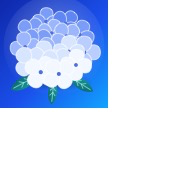
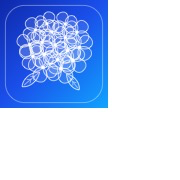
Иконка — прозрачная гортензия белыми линиями, как на карточках; листья целиком (версия 20)

Changed region(s): [[0.0278, 0.0, 0.5833, 0.5833], [0.5278, 0.0556, 0.5556, 0.0833]]

diff --git a/app.js b/app.js
@@ -1,6 +1,6 @@
 'use strict';
 
-const APP_VERSION = 19;
+const APP_VERSION = 20;
 
 /* ================= Data ================= */
 
@@ -402,7 +402,7 @@ const FLOWER = (() => {
   for (let i = 0; i < 6; i++) { const a = i / 6 * Math.PI * 2 + .3; pts.push([Math.cos(a) * .52, Math.sin(a) * .5]); }
   for (let i = 0; i < 10; i++) { const a = i / 10 * Math.PI * 2 + .1; pts.push([Math.cos(a) * .98, Math.sin(a) * .9]); }
   pts.sort((a, b) => (a[1] + a[0] * .1) - (b[1] + b[0] * .1));
-  const R = 34, cx = 50, cy = 46;
+  const R = 30, cx = 50, cy = 42;
   let fl = '';
   for (const [px, py] of pts) {
     const x = cx + (px + (r() - .5) * .12) * R, y = cy + (py + (r() - .5) * .12) * R;
@@ -410,7 +410,7 @@ const FLOWER = (() => {
     for (let i = 0; i < 4; i++) fl += `<path class="pt" d="${PETAL}" transform="translate(${f(x)} ${f(y)}) rotate(${f(rot + i * 90)}) scale(${f(sc)})"/>`;
     fl += `<circle class="ct" cx="${f(x)}" cy="${f(y)}" r="${f(sc * .13)}"/>`;
   }
-  return `<svg class="flower" viewBox="0 0 100 100" aria-hidden="true">${leaf(30, 74, 34, 140)}${leaf(66, 80, 30, 62)}${fl}</svg>`;
+  return `<svg class="flower" viewBox="0 0 100 100" aria-hidden="true">${leaf(38, 68, 24, 140)}${leaf(62, 70, 22, 52)}${fl}</svg>`;
 })();
 
 function accountChips() {

diff --git a/styles.css b/styles.css
@@ -315,7 +315,7 @@ body { background: var(--bg-grad) no-repeat, var(--bg); }
 /* Яркая карточка-«льдинка» с фарфоровой каймой и цветком */
 .hero { position: relative; overflow: hidden; border-radius: 26px; padding: 18px 18px 16px; margin-bottom: 14px; color: #fff; background: var(--hero); box-shadow: var(--hero-shadow); }
 .hero::after { content: ""; position: absolute; inset: 6px; border-radius: 21px; border: 1px solid rgba(255, 255, 255, .38); pointer-events: none; }
-.hero .flower { position: absolute; right: -6px; top: -16px; width: 132px; height: 132px; pointer-events: none; }
+.hero .flower { position: absolute; right: 10px; top: 8px; width: 112px; height: 112px; overflow: visible; pointer-events: none; }
 .hero .flower .pt { fill: rgba(255, 255, 255, .08); stroke: rgba(255, 255, 255, .42); stroke-width: 1; vector-effect: non-scaling-stroke; stroke-linejoin: round; }
 .hero .flower .ct { fill: rgba(255, 255, 255, .5); }
 .hero .flower .lf { fill: rgba(255, 255, 255, .05); stroke: rgba(255, 255, 255, .42); stroke-width: 1; vector-effect: non-scaling-stroke; }

diff --git a/sw.js b/sw.js
@@ -1,6 +1,6 @@
 // Офлайн-кэш приложения. При изменении файлов увеличьте версию.
-const CACHE = 'monetka-v19';
-const FILES = ['./', 'index.html', 'styles.css?v=19', 'app.js?v=19', 'manifest.webmanifest', 'icons/icon-180.png', 'icons/icon-192.png', 'icons/icon-512.png'];
+const CACHE = 'monetka-v20';
+const FILES = ['./', 'index.html', 'styles.css?v=20', 'app.js?v=20', 'manifest.webmanifest', 'icons/icon-180.png', 'icons/icon-192.png', 'icons/icon-512.png'];
 
 self.addEventListener('install', e => {
   e.waitUntil(caches.open(CACHE).then(c => c.addAll(FILES.map(f => new Request(f, { cache: 'reload' })))).then(() => self.skipWaiting()));

diff --git a/index.html b/index.html
@@ -14,11 +14,11 @@
   <link rel="manifest" href="manifest.webmanifest">
   <link rel="apple-touch-icon" href="icons/icon-180.png">
   <link rel="icon" type="image/png" href="icons/icon-192.png">
-  <link rel="stylesheet" href="styles.css?v=19">
+  <link rel="stylesheet" href="styles.css?v=20">
 </head>
 <body>
   <div id="app"></div>
   <input type="file" id="importFile" accept="application/json,.json" hidden>
-  <script src="app.js?v=19"></script>
+  <script src="app.js?v=20"></script>
 </body>
 </html>

diff --git a/tools/make_icon.py b/tools/make_icon.py
@@ -27,15 +27,17 @@ def f(n):
     return f'{n:.3f}'.rstrip('0').rstrip('.')
 
 
-def floret(x, y, s, rot, fill, center):
+def floret(x, y, s, rot):
+    # белые линии с лёгкой заливкой — как узор на ярких карточках приложения
     out = ''
     for i in range(4):
         out += (f'<path d="{PETAL}" transform="translate({f(x)} {f(y)}) rotate({f(rot + i * 90)}) scale({f(s)})" '
-                f'fill="{fill}" stroke="#fff" stroke-opacity=".85" stroke-width="{f(1.2 / s)}" stroke-linejoin="round"/>')
-    return out + f'<circle cx="{f(x)}" cy="{f(y)}" r="{f(s * .13)}" fill="{center}"/>'
+                f'fill="#fff" fill-opacity=".1" stroke="#fff" stroke-opacity=".78" stroke-width="{f(1.4 / s)}" stroke-linejoin="round"/>')
+    return out + f'<circle cx="{f(x)}" cy="{f(y)}" r="{f(s * .13)}" fill="#fff" fill-opacity=".85"/>'
 
 
-def cluster(cx, cy, R, seed, pal, center):
+def cluster(cx, cy, R, seed):
+    # тот же порядок случайных чисел, что в FLOWER в app.js
     r = rng(seed)
     pts = [(0.0, 0.0)]
     pts += [(math.cos(i / 6 * math.pi * 2 + .3) * .52, math.sin(i / 6 * math.pi * 2 + .3) * .5) for i in range(6)]
@@ -43,37 +45,32 @@ def cluster(cx, cy, R, seed, pal, center):
     pts.sort(key=lambda p: p[1] + p[0] * .1)  # дальние (верх) раньше, ближние (низ) поверх
     out = ''
     for px, py in pts:
-        jx, jy = (r() - .5) * .12, (r() - .5) * .12
-        depth = (py + 1) / 2
-        s = R * (.44 + .1 * depth + (r() - .5) * .06)
-        rot = r() * 90
-        k = min(len(pal) - 1, max(0, math.floor(depth * (len(pal) - 1) + (r() - .5) * 1.6 + .5)))
-        out += floret(cx + (px + jx) * R, cy + (py + jy) * R, s, rot, pal[k], center)
+        x = cx + (px + (r() - .5) * .12) * R
+        y = cy + (py + (r() - .5) * .12) * R
+        s = R * (.44 + .1 * (py + 1) / 2 + (r() - .5) * .06)
+        out += floret(x, y, s, r() * 90)
     return out
 
 
 def leaf(x, y, ln, rot):
     return (f'<g transform="translate({x} {y}) rotate({rot})">'
-            f'<path d="M0 0C{f(ln*.35)} {f(-ln*.28)} {f(ln*.8)} {f(-ln*.22)} {ln} 0C{f(ln*.8)} {f(ln*.22)} {f(ln*.35)} {f(ln*.28)} 0 0Z" fill="url(#lf)"/>'
+            f'<path d="M0 0C{f(ln*.35)} {f(-ln*.28)} {f(ln*.8)} {f(-ln*.22)} {ln} 0C{f(ln*.8)} {f(ln*.22)} {f(ln*.35)} {f(ln*.28)} 0 0Z" '
+            f'fill="#fff" fill-opacity=".07" stroke="#fff" stroke-opacity=".78" stroke-width="1.6" stroke-linejoin="round"/>'
             f'<path d="M{f(ln*.05)} 0H{f(ln*.9)}M{f(ln*.3)} 0l{f(ln*.14)} {f(-ln*.12)}M{f(ln*.5)} 0l{f(ln*.14)} {f(-ln*.11)}'
             f'M{f(ln*.3)} 0l{f(ln*.14)} {f(ln*.12)}M{f(ln*.5)} 0l{f(ln*.14)} {f(ln*.11)}" '
-            f'fill="none" stroke="#8fe0d6" stroke-width="1.3" stroke-linecap="round"/></g>')
+            f'fill="none" stroke="#fff" stroke-opacity=".65" stroke-width="1.3" stroke-linecap="round"/></g>')
 
 
 def icon_svg():
-    # только голубые оттенки, от дальних (насыщенные, плотные) к ближним (почти белые)
-    pal = ['#5f86f2', '#7b9df8', '#9bb6fc', '#bacdff', '#d8e5ff', '#f3f7ff']
+    # фон и кайма — как у яркой карточки (--hero), гортензия — как FLOWER, листья целиком
     return f'''<svg xmlns="http://www.w3.org/2000/svg" viewBox="0 0 180 180" width="180" height="180">
 <defs>
-<linearGradient id="bg" x1="0" y1="0" x2="1" y2="1"><stop offset="0" stop-color="#0e28aa"/><stop offset=".55" stop-color="#1a4fea"/><stop offset="1" stop-color="#10a4ff"/></linearGradient>
-<linearGradient id="lf" x1="0" y1="0" x2="1" y2="1"><stop offset="0" stop-color="#1aa39a"/><stop offset="1" stop-color="#0b5f6e"/></linearGradient>
-<radialGradient id="hl" cx=".5" cy=".4" r=".6"><stop offset="0" stop-color="#fff" stop-opacity=".3"/><stop offset="1" stop-color="#fff" stop-opacity="0"/></radialGradient>
-<radialGradient id="sh" cx=".5" cy=".5" r=".5"><stop offset="0" stop-color="#06134d" stop-opacity=".45"/><stop offset="1" stop-color="#06134d" stop-opacity="0"/></radialGradient>
+<linearGradient id="bg" x1="0" y1="0" x2="1" y2="1"><stop offset="0" stop-color="#0e28aa"/><stop offset=".48" stop-color="#1a4fea"/><stop offset="1" stop-color="#10a4ff"/></linearGradient>
 </defs>
-<rect width="180" height="180" fill="url(#bg)"/><circle cx="90" cy="76" r="84" fill="url(#hl)"/>
-<ellipse cx="92" cy="136" rx="62" ry="16" fill="url(#sh)"/>
-{leaf(62, 126, 50, 152)}{leaf(116, 128, 46, 32)}{leaf(90, 134, 40, 96)}
-{cluster(90, 80, 50, 11, pal, '#4f6fdc')}
+<rect width="180" height="180" fill="url(#bg)"/>
+<rect x="9" y="9" width="162" height="162" rx="32" fill="none" stroke="#fff" stroke-opacity=".38" stroke-width="1.6"/>
+{leaf(66, 120, 38, 140)}{leaf(111, 123, 34, 52)}
+{cluster(90, 76, 44, 7)}
 </svg>
 '''
 

diff --git a/docs/ARCHITECTURE.md b/docs/ARCHITECTURE.md
@@ -12,7 +12,7 @@
 | `app.js` | вся логика и отрисовка (обычный скрипт, без модулей) |
 | `styles.css` | стили; тема «Морозный фарфор» (кобальт и небесно-голубой, узоры гжели): цвета — CSS-переменные на `:root` (`--hero` — градиент ярких карточек, `--orn` — цвет узоров, `--serif` — шрифт заголовков); оранжевая — `data-accent="orange"`; тёмная — `prefers-color-scheme` и `data-theme` |
 | `sw.js` | service worker: сначала сеть (`cache: 'no-store'`), без сети — кэш; при новой версии страница перезагружается сама |
-| `manifest.webmanifest`, `icons/` | установка на экран «Домой»; иконка — голубая гортензия только в голубых тонах (`icons/icon.svg` → PNG) |
+| `manifest.webmanifest`, `icons/` | установка на экран «Домой»; иконка — гортензия белыми линиями на кобальтовом фоне, как узор на карточках (`icons/icon.svg` → PNG) |
 | `tools/` | `make_icon.py` рисует `icons/icon.svg`, `render_icons.sh` делает из него PNG 180/192/512 (macOS) |
 | `server/` | сервер синхронизации (Python, без зависимостей) и файлы для установки — см. `server/README.md` |
 
